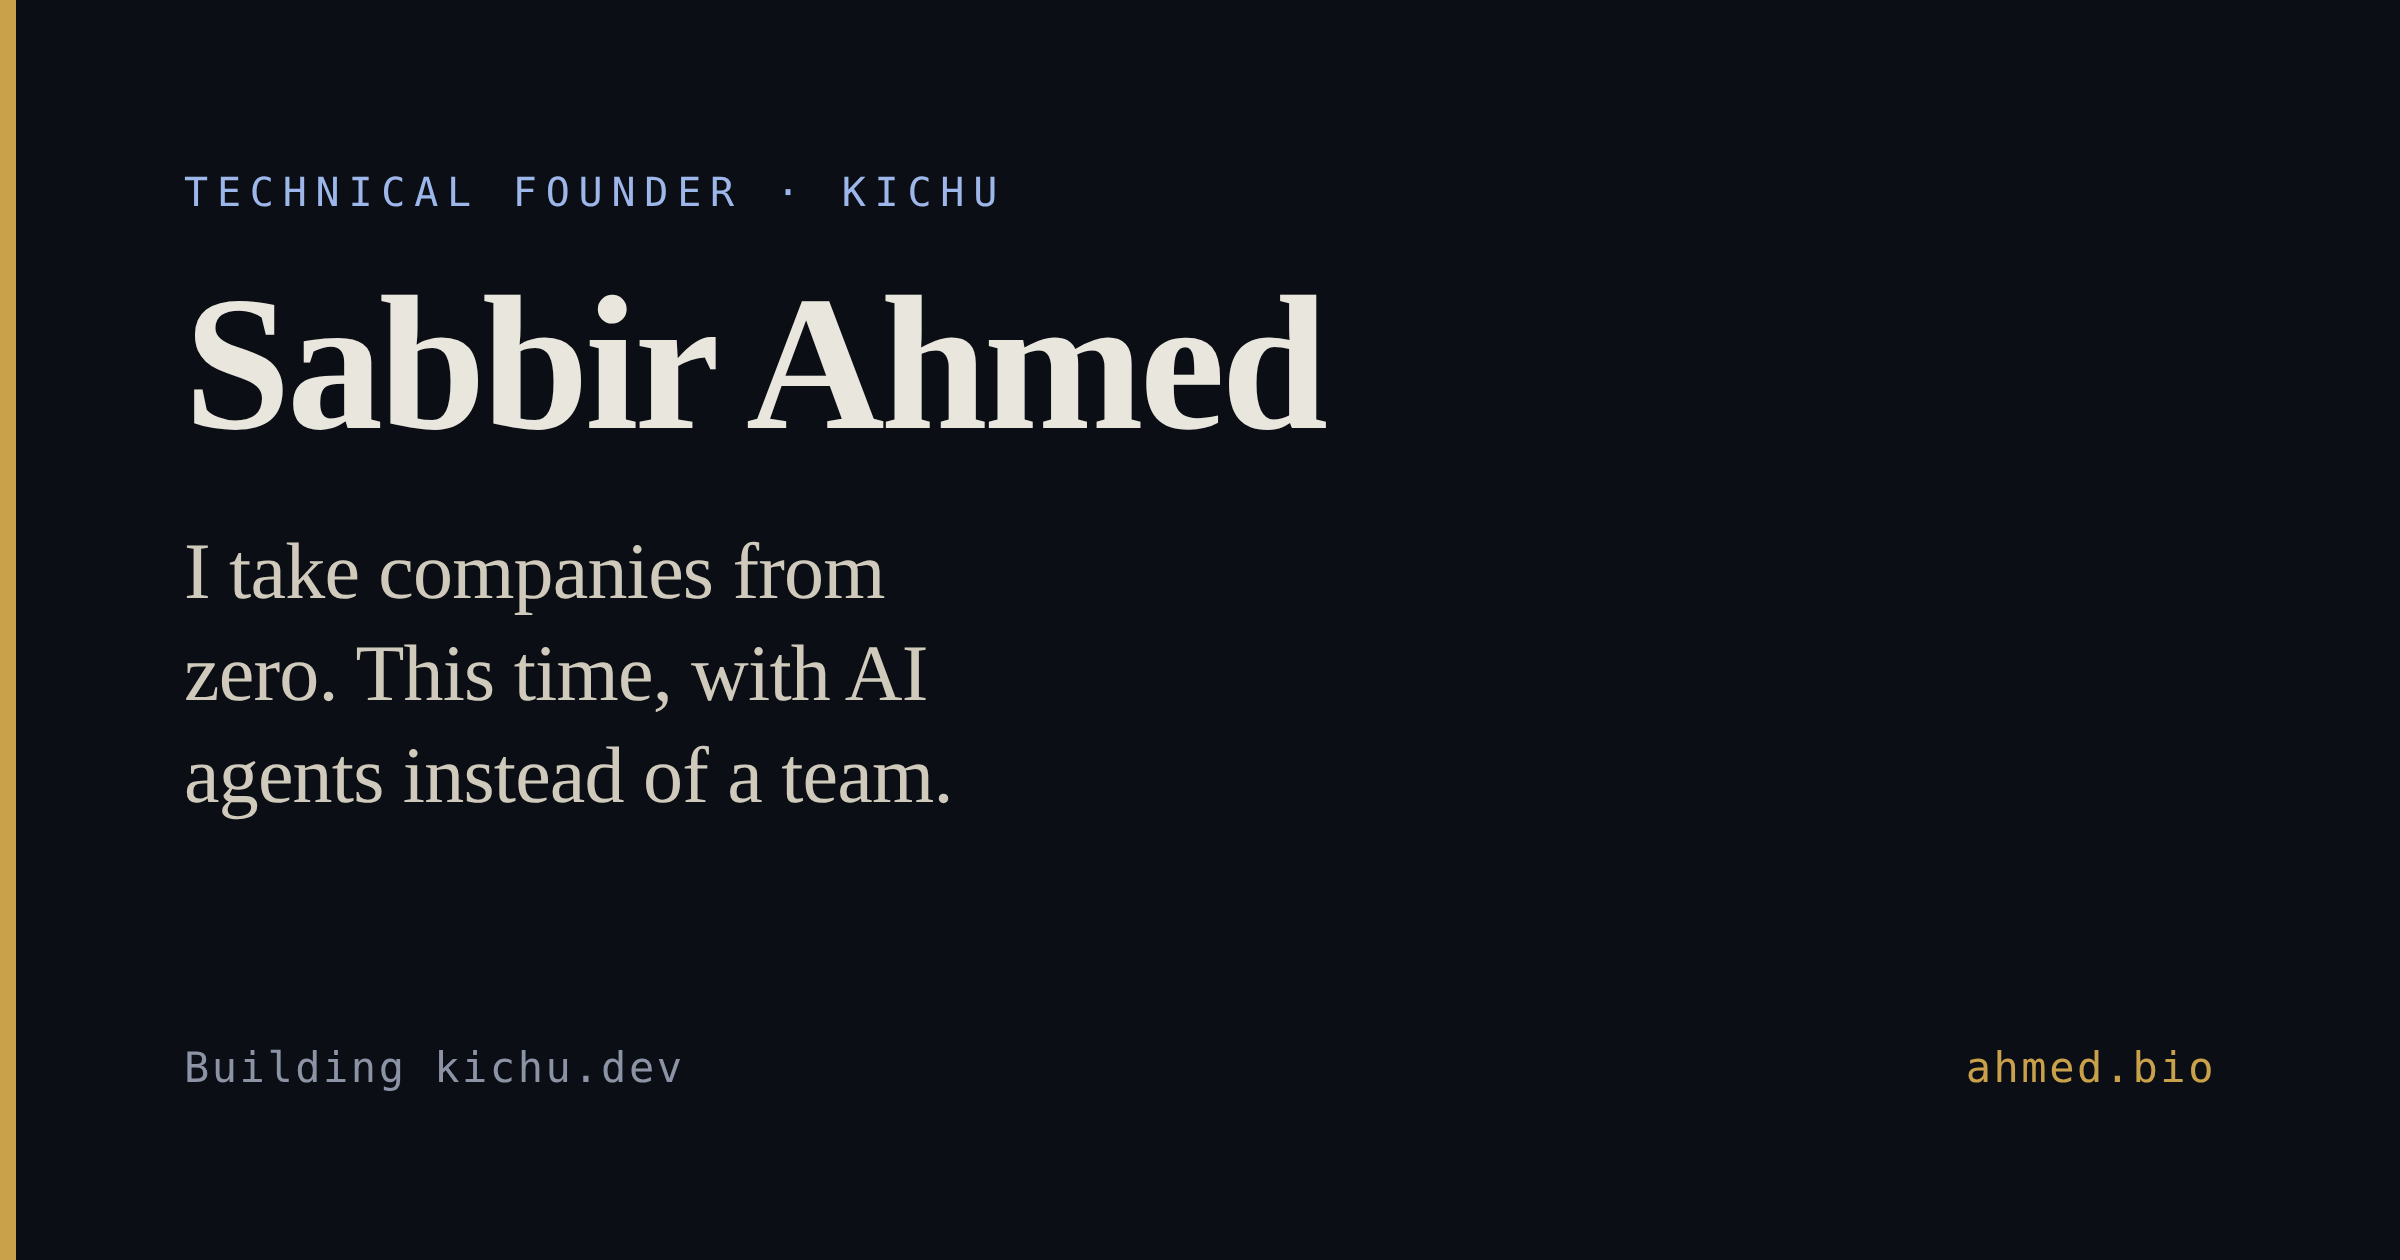
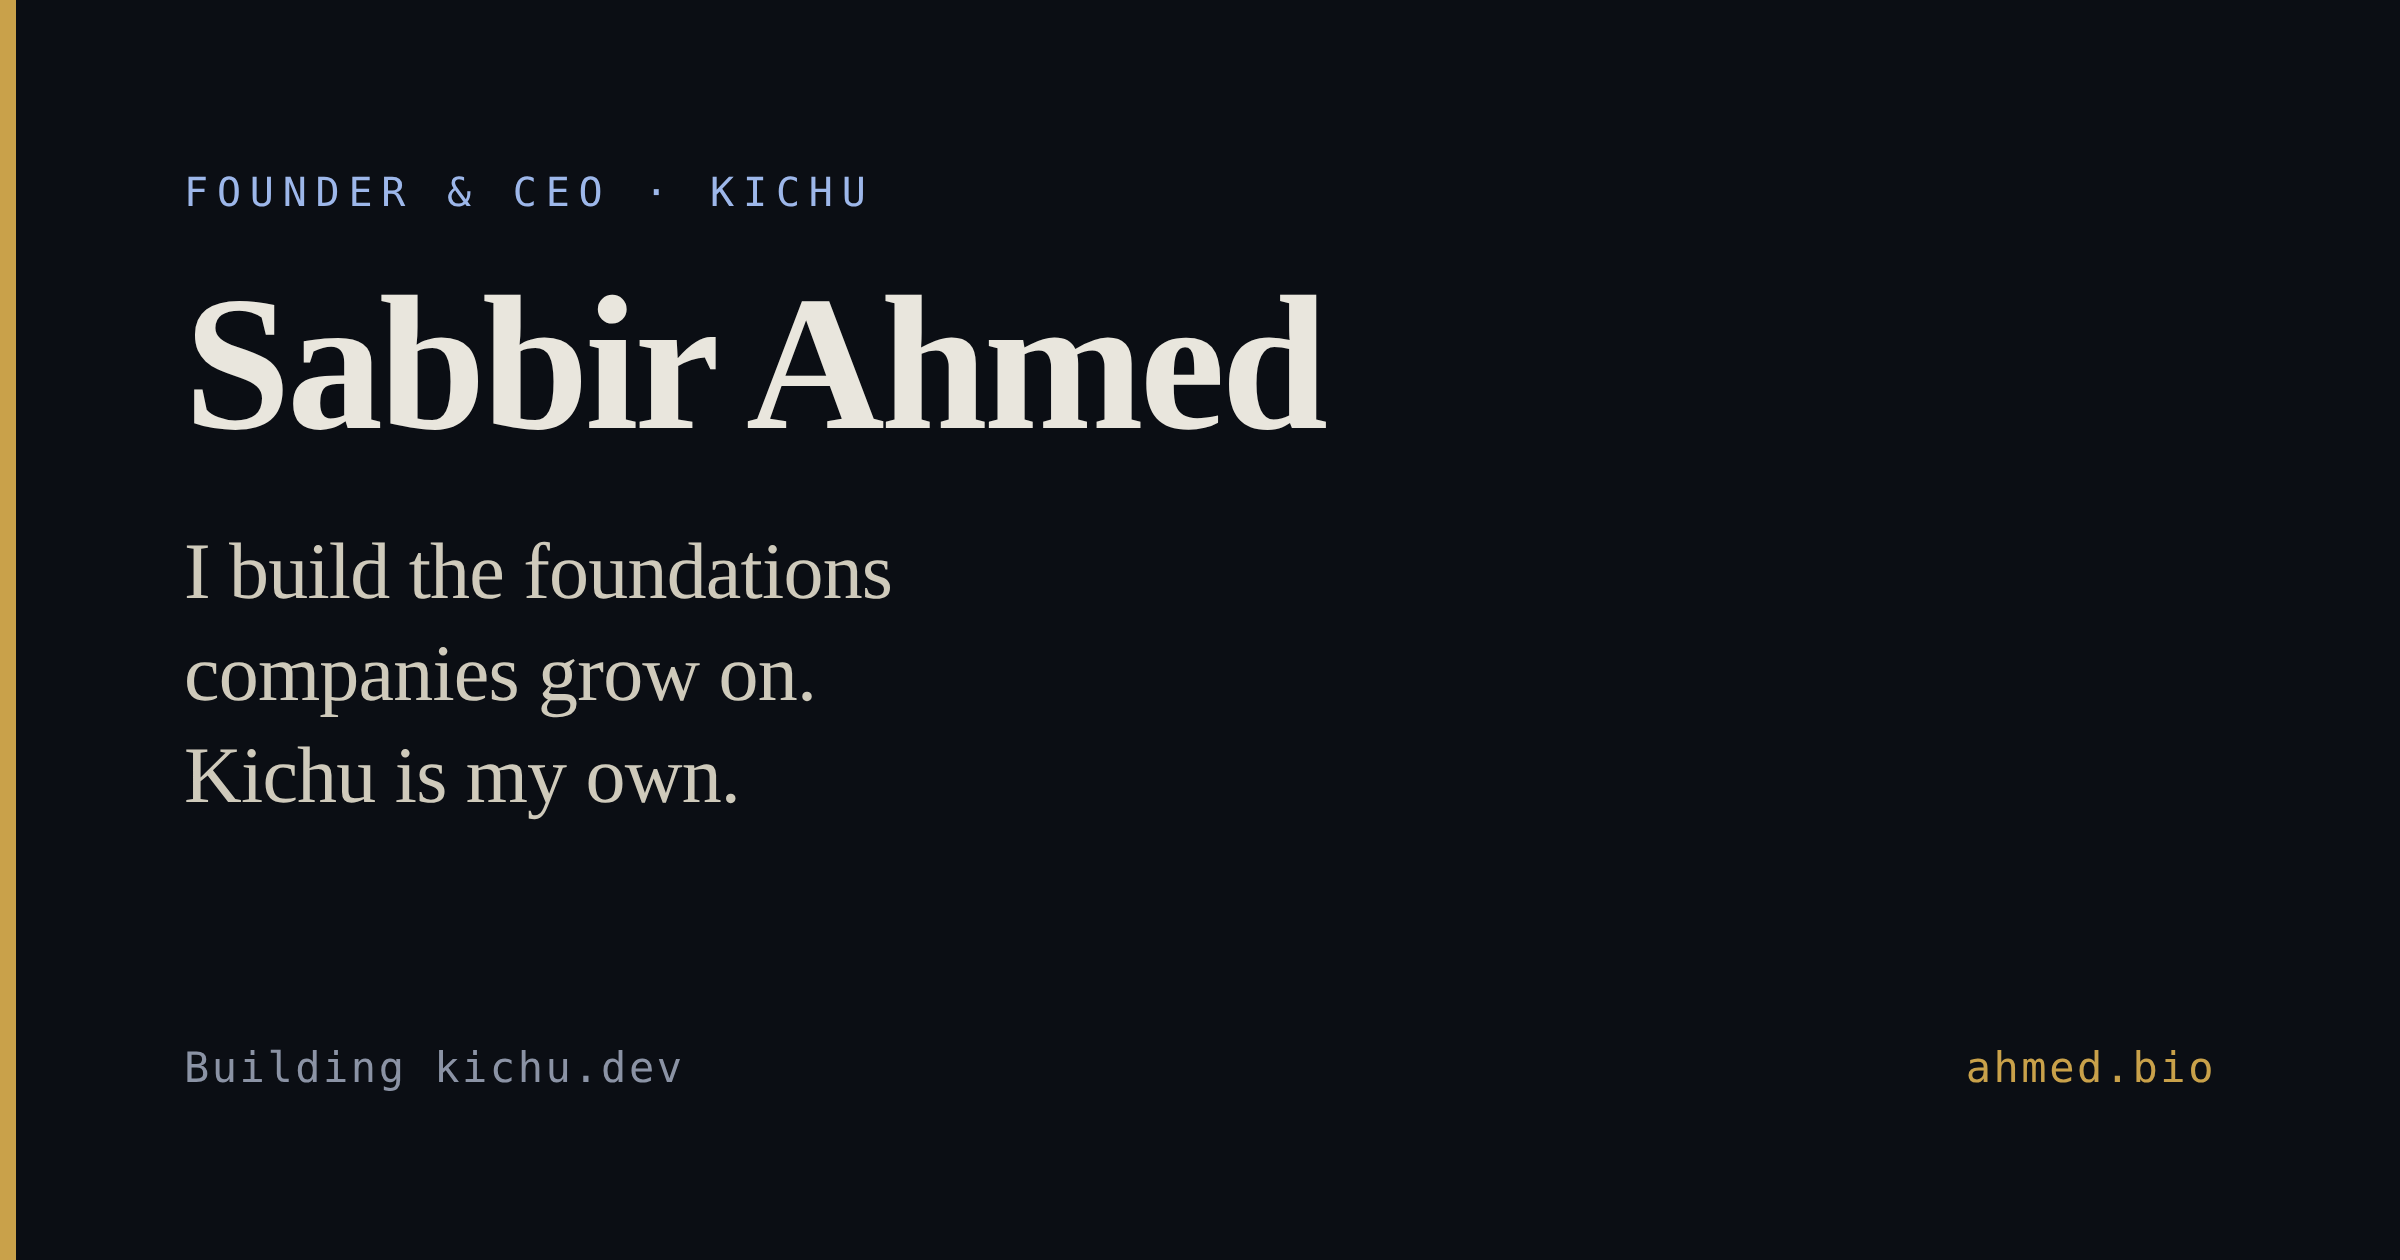
Reposition around foundations; Kichu is a founding team
Lead with the founder's edge: "I build the foundations companies grow
on. Kichu is my own." The AI-agent angle moves into the intro and How
I build, tied to the same point: the model writes the code, the
foundation decides whether it holds.

Correct facts: Kichu has three founders, so drop the "solo" and
"instead of a team" claims; Sabbir is Founder & CEO; Ngaze was
co-founder & CTO.

Cut the Kichu card's architecture paragraph and keep to kichu.dev's
public copy. CLAUDE.md now carries a confidentiality rule for what
the site may say about Kichu.

Claude-Session: https://claude.ai/code/session_013r8mJJvnfrQCghjxHDd4bm

diff --git a/site/og.html b/site/og.html
@@ -28,9 +28,9 @@
 </head>
 <body>
   <div>
-    <div class="eyebrow">Technical founder · Kichu</div>
+    <div class="eyebrow">Founder &amp; CEO · Kichu</div>
     <div class="name">Sabbir Ahmed</div>
-    <div class="line">I take companies from zero. This time, with AI agents instead of a team.</div>
+    <div class="line">I build the foundations companies grow on. Kichu is my own.</div>
   </div>
   <div class="foot">
     <span>Building kichu.dev</span>

diff --git a/CLAUDE.md b/CLAUDE.md
@@ -20,7 +20,13 @@ by design. The résumé (Markdown/HTML/PDF/DOCX) lives only in `resume` now; edi
 Content rule: every claim must be grounded in fact — the résumé, or Kichu's own public copy on
 kichu.dev (its landing strings live in the kichu repo's `apps/site/src/i18n/ui.ts`). Describe Kichu
 the way kichu.dev does, so the two never disagree. Never upgrade a title (Cookups was *founding
-engineer*, not founder).
+engineer*, not founder; Ngaze was *co-founder & CTO*).
+
+**Confidentiality.** Kichu is a three-person founding team; Sabbir is Founder & CEO. Nothing from
+Kichu's private materials (pitch or partner decks, the kichu repo's internal docs) goes on this
+site: no raise, valuation, pricing, runway, roadmap, traction numbers, customer names, or
+architecture/cost details. Don't name the co-founders without asking. Don't invite investment
+publicly ("back us", "we're raising"): that can count as general solicitation for a private round.
 
 `site/og.html` is the source for `og.png` (regeneration command in its header comment).
 
